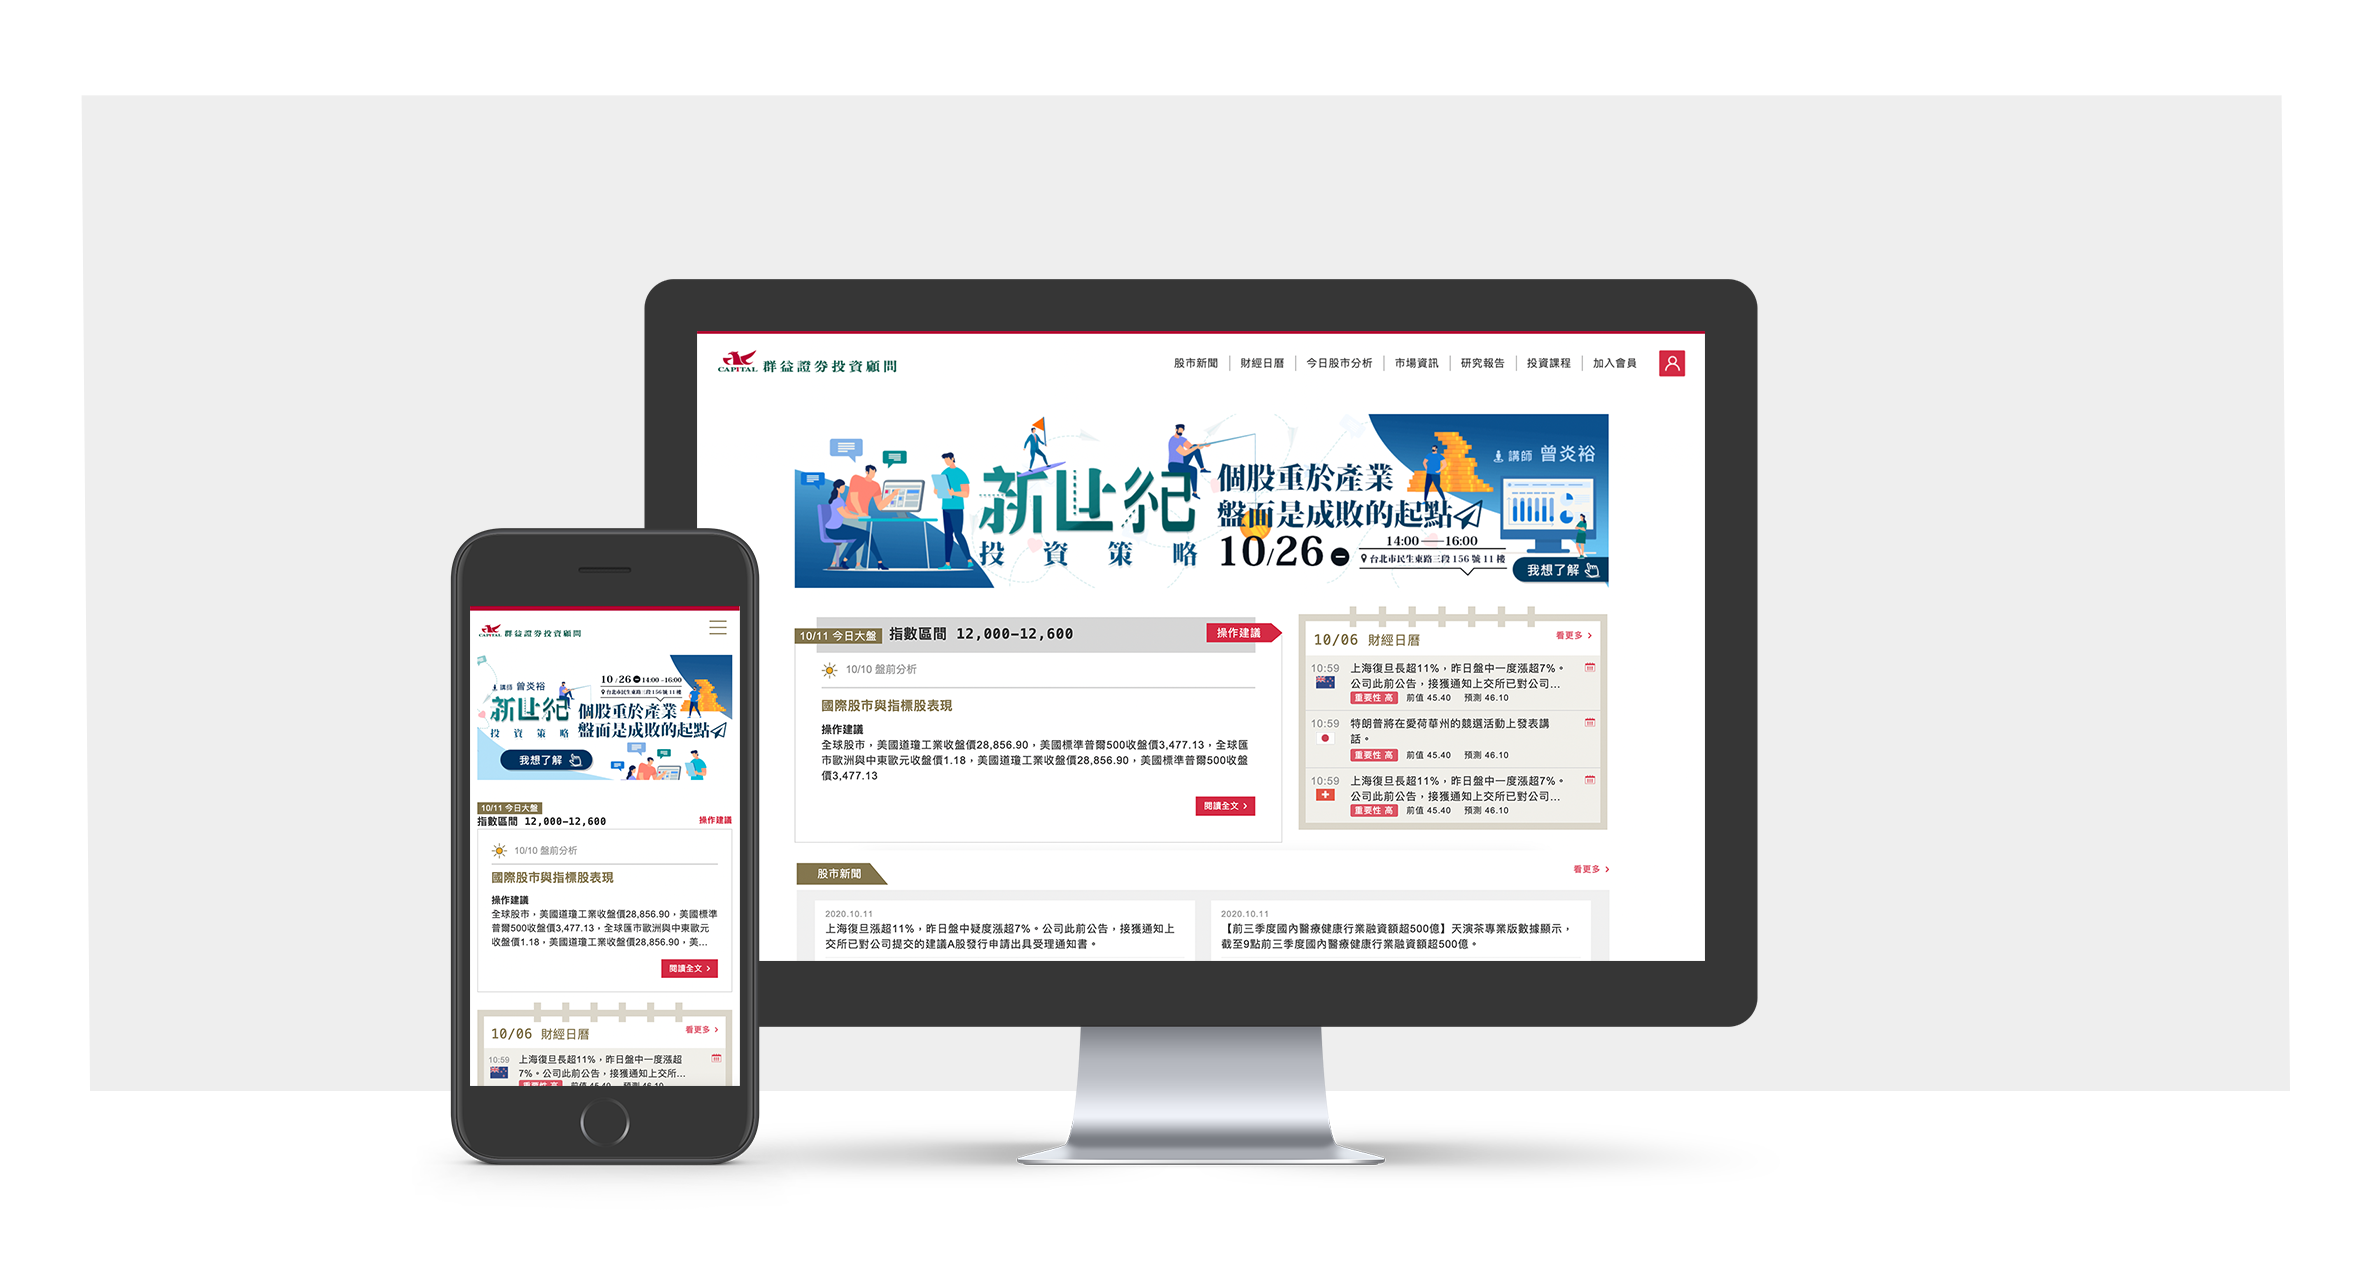
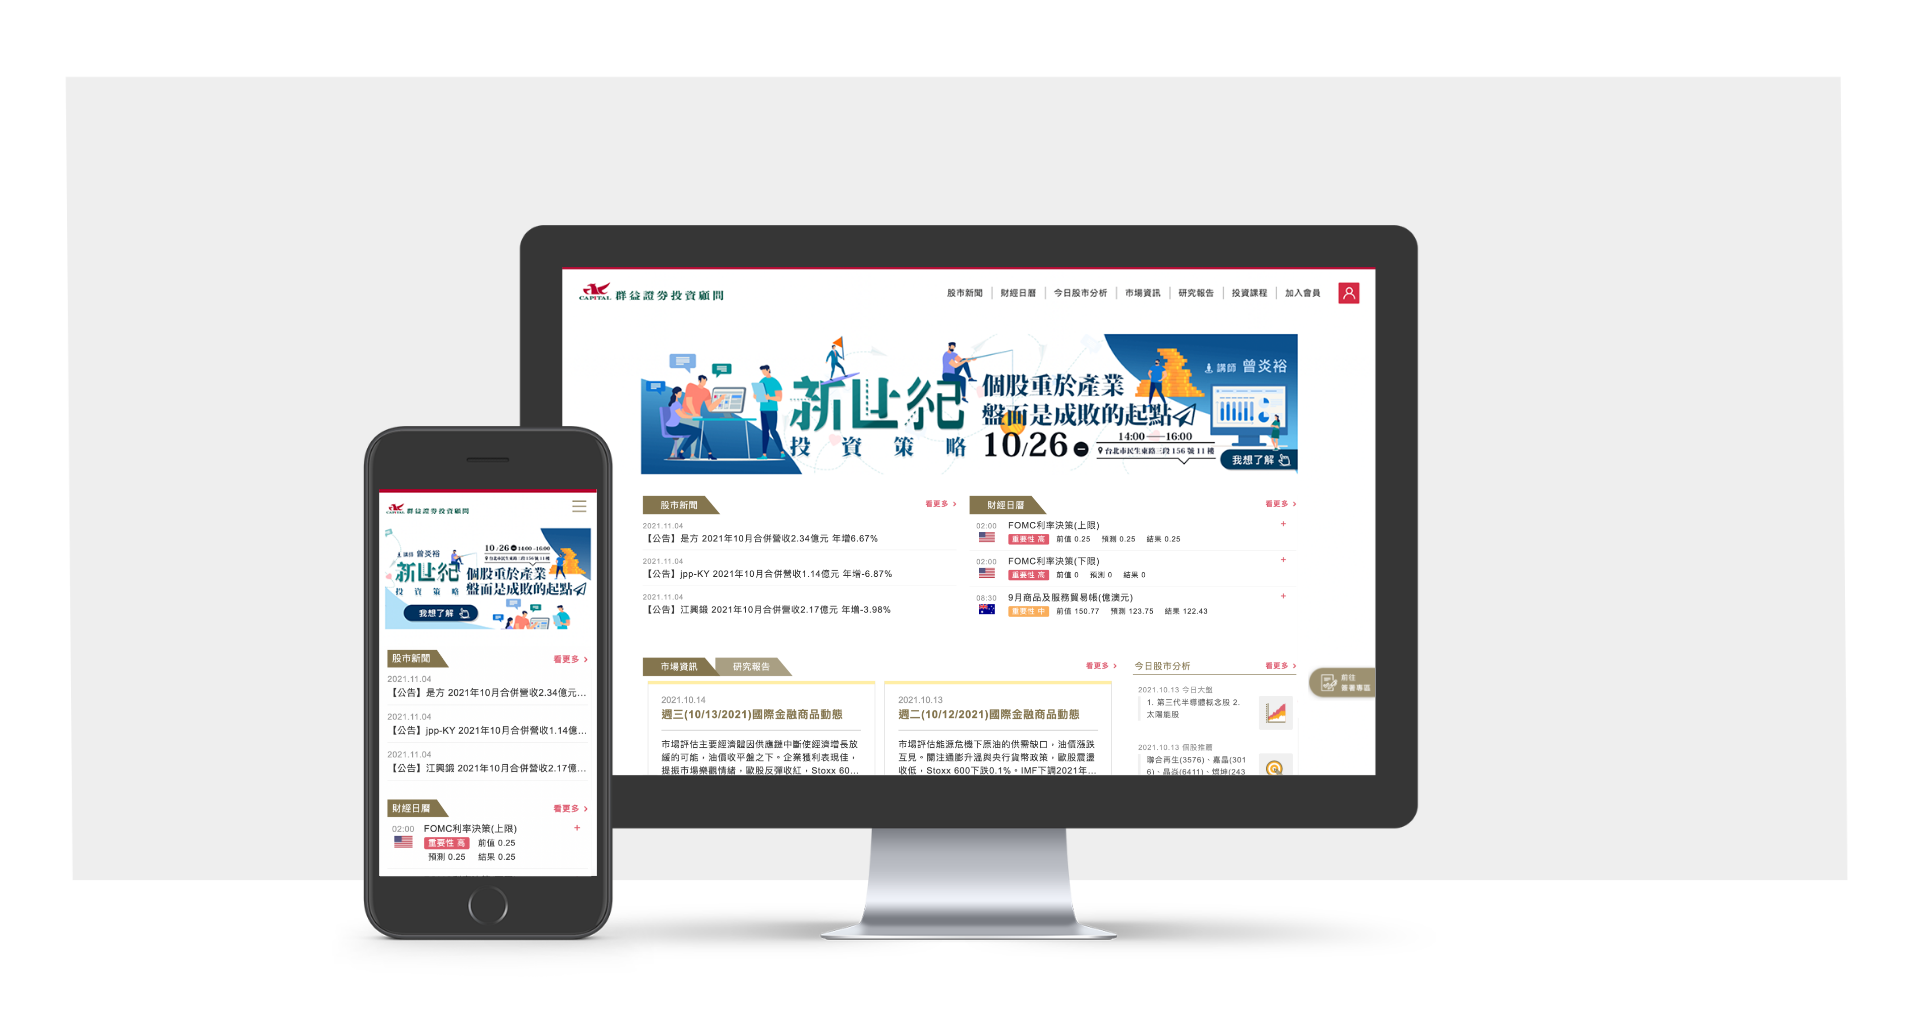
更新投顧頁面

Changed region(s): [[0.1875, 0.4638, 0.7188, 0.8657]]

diff --git a/profolio/page3.html b/profolio/page3.html
@@ -86,6 +86,17 @@
     </div>
   </main>
 
+  <main class="my-4">
+    <div>
+      <span class="p-0 pb-5 w-100 fs-4" style="color: #817652;">原 <mark class="fw-light bg-transparent" style="color: #817652;">系統畫面</mark></span>
+      <img class="w-100 mb-5" src="images/pic3-5.png">
+    </div>
+    <div>
+      <span class="pb-5 w-100 fs-4" style="color: #817652;">新 <mark class="fw-light bg-transparent" style="color: #817652;">系統畫面</mark></span>
+    <img class="w-100 shadow-sm" src="images/pic3-6.png">
+    </div>
+  </main>
+
   <div class="max-pic">
     <img class="w-100" src="images/pic3-4.png">
   </div>
